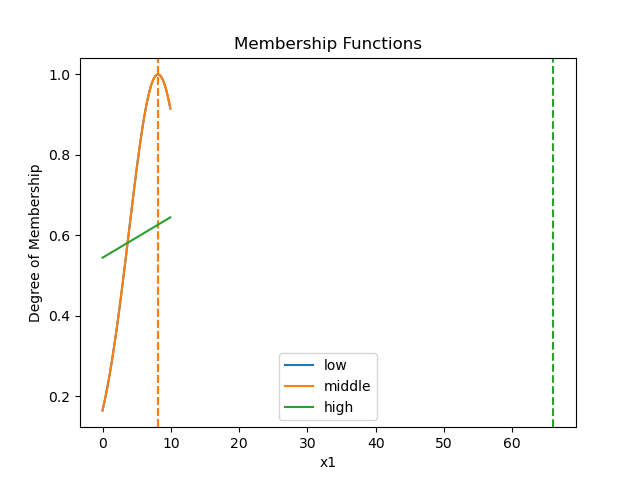
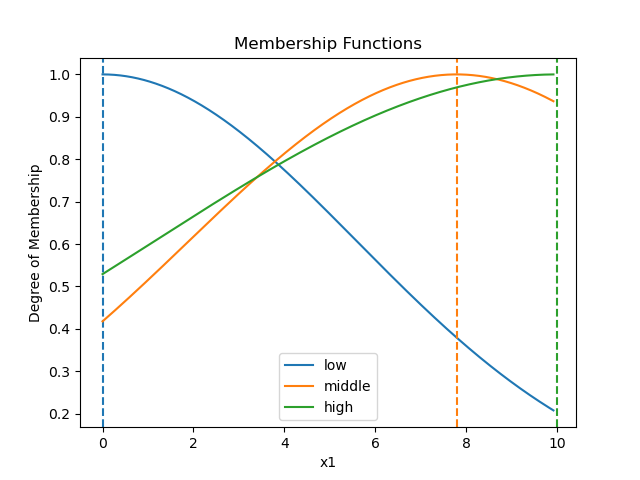
trying constraining MF params

diff --git a/neurofuzzy_pkg/utils/MyArcTrainer.py b/neurofuzzy_pkg/utils/MyArcTrainer.py
@@ -279,10 +279,10 @@ class MyArcTrainer(Trainer):
 
             x = delta[0]
             x = np.sum(x, axis=1)
-            deltas.append(x)
+            deltas.append(x/9* self.learning_rate)
             x = delta[1]
             x = np.sum(x, axis=0)
-            deltas.append(x)
+            deltas.append(x/9* self.learning_rate)
 
           #  deltas = [np.sum(d, axis=(i+1)%2) for i, d in enumerate(delta)]
 
@@ -372,5 +372,12 @@ class MyArcTrainer(Trainer):
 
 
       #  print("heh", param_to_tune)
+        
+        for i, p in enumerate(para):
+            print("p", p)
+            if p <= 0 or p >= 10: #hc
+                deltas[i] = 0#0.00001 # randomize todo
+                print("P",p)
+       # print("deltas", deltas)
         para =  para - deltas #np.multiply(deltas, self.learning_rate)
         setattr(layer, param, para)

diff --git a/neurofuzzy_pkg/utils/Classifier.py b/neurofuzzy_pkg/utils/Classifier.py
@@ -31,9 +31,9 @@ class Classifier():
     def get_class(self, input_vec, df_name=None): 
         # propagating through network
         outputs = self.arc(input_vec)
-        print("out", outputs)
+       # print("out", outputs)
         outputs = np.sum(outputs, axis=1).tolist()
-        print("out after", outputs)
+      # print("out after", outputs)
 
         max_val = max(outputs)
         idx_max = outputs.index(max_val)
@@ -50,6 +50,6 @@ class Classifier():
 
     
     def is_class_correct(self, classID, target):
-        print("target", target)
-        print("classid", classID)
+        #print("target", target)
+       # print("classid", classID)
         return classID == target
